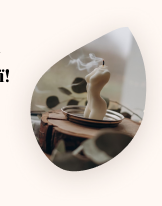
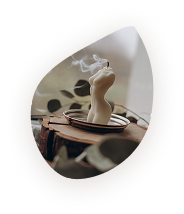
Add the next section of the page.

Changed region(s): [[0.1543, 0.1165, 0.9259, 0.8447], [0.0, 0.3204, 0.0617, 0.4078]]

diff --git a/index.html b/index.html
@@ -58,7 +58,7 @@
             <div class="container top__inner">
                 <div class="top__content">
                     <h3 class="top__title">
-                        Створіть атмосферу затишку та гармонії!
+                        Создайте атмосферу уюта и гармонии!
                     </h3>
                     <p class="top__text">
                         Создайте особую атмосферу в своем доме с нашей экологически чистой и качественной продукцией из
@@ -66,11 +66,53 @@
                         натурального соевого воска.
                     </p>
                     <a href="#" target="_blank" class="top__buy">Купить</a>
-                    
+
                 </div>
                 <picture class="top__img">
-                    <img src="./images/top-l.png" alt="">
+                    <source class="top__img-m" srcset="./images/top-s.png" media="(max-width: 360px)">
+                    <source class="top__img-m" srcset="./images/top-m.png" media="(max-width: 480px)">
+                    <img class="top__img-l" src="./images/top-l.png" alt="">
                 </picture>
+            </div>
+        </div>
+        <div class="about">
+            <div class="container container-about">
+                <div class="about__inner">
+                    <div class="about__textbox">
+                        <h2 class="about__title">
+                            Про нас
+                        </h2>
+                        <p class="about__text">
+                            Богдан творець бренду який завжди зацікавлений у виготовленні різноманітних речей вдома. Він
+                            регулярно експериментував з різними матеріалами та інструментами, спробувавши свої сили у
+                            багатьох галузях, включаючи виготовлення свічок.
+                        </p>
+                        <p class="about__text">
+                            Ссоєвий віск виготовляють із соєвих бобів, що зрощуються в Данії, і цей вид воску є
+                            екологічно чистим та безпечним для здоров'я.
+                        </p>
+                    </div>
+                    <div class="about__content">
+                        <div class="about__content-wrapper">
+                            <div class="about__content-item">
+                                <img src="./images/about-1.jpg" alt="" class="about__content-img">
+                                <p class="about__content-text">Насолоджуйтеся моментом</p>
+                            </div>
+                            <div class="about__content-item">
+                                <img src="./images/about-2.png" alt="" class="about__content-img">
+                                <p class="about__content-text">Створіть улюблену атмосферу</p>
+                            </div>
+                            <div class="about__content-item">
+                                <img src="./images/about-3.jpg" alt="" class="about__content-img">
+                                <p class="about__content-text">Виготовлені з любов'ю</p>
+                            </div>
+                        </div>
+                        <div class="about__content-decoration">
+                            <img src="./images/about-icon.svg" alt="">
+                            <div class="line"></div>
+                        </div>
+                    </div>
+                </div>
             </div>
         </div>
     </main>

diff --git a/css/style.css b/css/style.css
@@ -157,6 +157,7 @@ input::placeholder {
 /* top */
 .main {
     background-color: #FFF8F3;
+    overflow-x: clip;
 }
 
 .top {
@@ -171,7 +172,6 @@ input::placeholder {
 .top__content {
     width: 380px;
     padding: 150px 0 250px;
-
 }
 
 .top__title {
@@ -188,13 +188,11 @@ input::placeholder {
 
 .top__buy {
     display: inline-block;
-    padding: 18px 18px;
-    max-width: 150px;
-    width: 100%;
-    height: 55px;
+    padding: 20px 46px;
     font-family: "Comfortaa-Regular", sans-serif;
     font-size: 14px;
     font-weight: 600;
+    line-height: 1.4;
     text-align: center;
     background-color: #FFBD59;
 }
@@ -203,6 +201,10 @@ input::placeholder {
     position: absolute;
     top: 0;
     left: 240px;
+}
+
+.top__img-l {
+    max-width: none;
 }
 
 
@@ -249,6 +251,22 @@ input::placeholder {
     .container {
         padding: 0 20px;
     }
+    .top__content {
+        width: 333px;
+        padding: 95px 0 70px;
+    }
+    .top__text {
+        margin-bottom: 30px;
+    }
+    .top__img {
+        left: 300px;
+    }
+    .top__img-l {
+        width: 655px;
+    }
+    .top__text {
+        margin-bottom: 30px;
+    }
 }
 
 @media (max-width: 900px) {
@@ -287,6 +305,23 @@ input::placeholder {
         height: 14px;
         left: -16px;
         top: -2px;
+    }
+    .top__content {
+        width: 236px;
+    }
+    .top__title {
+        font-size: 20px;
+        margin-bottom: 20px;
+    }
+    .top__text {
+        font-size: 10px;
+        margin-bottom: 20px;
+    }
+    .top__buy {
+        padding: 15px 30px;
+    }
+    .top__img {
+        left: 180px;
     }
 }
 
@@ -350,6 +385,121 @@ input::placeholder {
         flex-direction: column;
         gap: 22px 0;
     }
+    
 
+
+}
+
+@media (max-width: 480px) {
+    .top {
+        padding: 30px 0 50px;
+    }
+    .top__content {
+        width: 180px;
+        padding-top: 80px;
+        padding-bottom: 100px;
+    }
+    .top__title {
+        font-size: 15px;
+        margin-bottom: 15px;
+    }
+    .top__text {
+        font-size: 8px;
+        margin-bottom: 15px;
+    }
+    .top__buy {
+        padding: 14px 41px;
+        font-size: 10px;
+    }
+    .top__img {
+        left: 120px;
+    }
+    .top__img-l {
+        width: 309px;
+    }
+}
+
+@media (max-width: 360px) {
+    .top__content {
+        width: 200px;
+        padding: 20px 0 0 0;
+        position: relative;
+        z-index: 2;
+    }
+    .top__title {
+        font-size: 18px;
+    }
+    .top__img {
+        left: 180px;
+    }
+    .top__img-l {
+        width: 185px;
+        position: relative;
+        z-index: 1;
+    }
+    .top__text {
+        font-size: 10px;
+    }
+}
+
+/* about */
+.about {
+    padding: 50px 0 108px;
+    background-color: #A5978E;
+    color: #FAFAFA;
+    font-weight: 400;
+}
+.container-about {
+    position: relative;
+}
+.about__inner {
+    display: flex;
+    gap: 20px;
+}
+.about__textbox {
+    width: 371px;
+    padding: 78px 0;
+}
+.about__title {
+    font-family: 'YesevaOne-Regular', cursive;
+    font-size: 40px;
+    font-weight: 400;
+    margin-bottom: 15px;
+}
+.about__text {
+    margin-bottom: 10px;
+    font-weight: 400;
+}
+.about__content {
+    position: absolute;
+    left: 370px;
+}
+.about__content-text {
+    font-size: 11px;
+}
+.about__content-wrapper {
+    display: flex;
+    align-items: center;
+    column-gap: 20px;
+    padding-bottom: 48px;
+    padding-left: 90px;
+}
+.about__content-img {
+    max-width: none;
+}
+.about__content-text {
+    padding-top: 10px;
+}
+.about__content-decoration {
+    display: flex;
+    align-items: center;
+}
+.about__content-decoration img {
+    margin-top: -10px;
+}
+.line {
+    flex-grow: 1; /* Полоса занимает оставшееся пространство */
+    height: 1px; /* Высота линии */
+    background-color: #7B6152; /* Цвет линии */
 
 }
